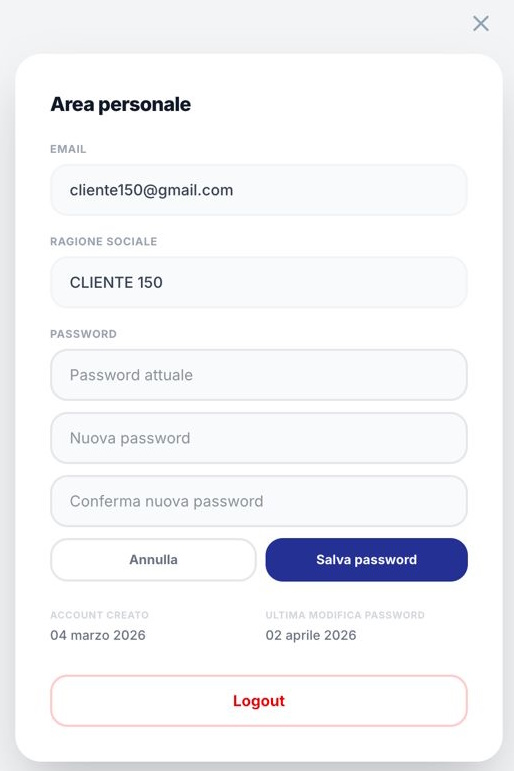
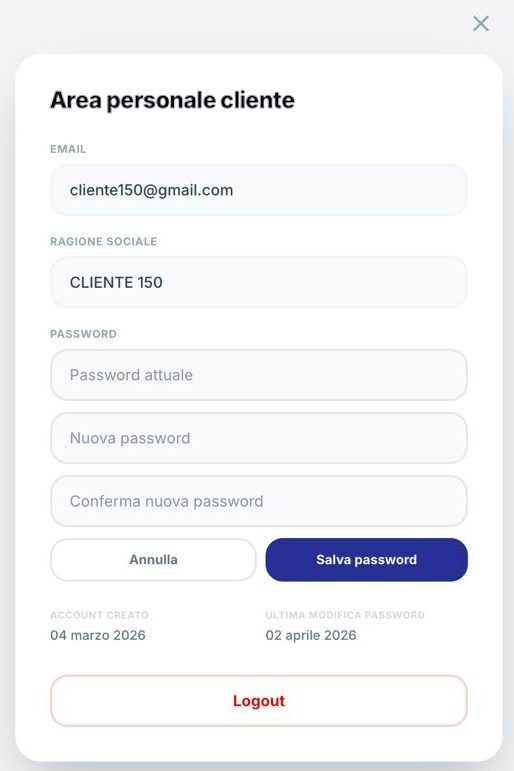
Completamento manuali
Redatto da:
- @biasuzzi-davide
Verificato da:
- Leonardo Bilato

Changed region(s): [[0.0934, 0.0934, 0.5914, 0.1556]]

diff --git a/src/PB/Documentazione Esterna/Manuale_Cliente_v0.6.tex b/src/PB/Documentazione Esterna/Manuale_Cliente_v0.6.tex
@@ -16,7 +16,7 @@
 
 % --- Grafica e Layout ---
 \usepackage{graphicx}
-\graphicspath{{Contenuti/}, {Contenuti/immagini/}, {Contenuti/componenti_manuali_utente/assets/},{../../assets/},{../assets/},{assets/}}
+\graphicspath{{Contenuti/}, {Contenuti/immagini/},{Contenuti/componenti_manuali_utente/assets/},{../../assets/},{../assets/},{assets/}}
 \usepackage[a4paper, top=2.5cm, bottom=3cm, left=2.5cm, right=2.5cm]{geometry}
 \usepackage{fancyhdr}
 \usepackage{microtype}
@@ -37,7 +37,7 @@
     filecolor=DarkBlue,
     urlcolor=DarkBlue,
     citecolor=DarkBlue,
-    pdftitle={Manuale Operatore - NightPRO},
+    pdftitle={Manuale Cliente - NightPRO},
     pdfauthor={Gruppo NightPRO},
 }
 
@@ -103,7 +103,7 @@
     {\small Anno Accademico 2025/2026 \par}
     \vfill
 
-    {\Huge \bfseries Manuale Operatore \par}
+    {\Huge \bfseries Manuale Cliente \par}
     \vspace{1cm}
 
     \vfill
@@ -113,9 +113,9 @@
 
     \large \leavevmode\href{swe.nightpro@gmail.com}{swe.nightpro@gmail.com} \\[2cm]
 
-    {\large Data: 2026-04-08 \par}
+    {\large Data: 2026-04-09 \par}
 
-    {\Large Versione: 0.2 \par}
+    {\Large Versione: 0.6 \par}
 
 \end{titlepage}
 
@@ -134,12 +134,25 @@
             \toprule
             \textbf{Versione} & \textbf{Data} & \textbf{Autore/i} & \textbf{Descrizione delle Modifiche} & \textbf{Verificatore} \\
             \midrule
-            0.2 & 2026-04-08 & Leonardo Bilato & Inserimento immagini e aggiornamento sezione Istruzioni & F. Zanella \\
-            0.1 & 2026-04-04 & Davide Biasuzzi & Stesura base documento manuale operatore & L. Bilato \\
+            0.6 & 2026-04-09 & Davide Biasuzzi & Terminazione del documento & Leonardo Bilato \\
+            0.5 & 2026-04-08 & Leonardo Bilato & Inserimento immagini e sezione feedback & Francesco Zanella \\
+            0.4 & 2026-04-04 & Davide Biasuzzi & Ridenominazione del documento in Manuale Cliente; estrazione della sezione Istruzioni d'uso Operatore in documento separato. & Leonardo Bilato \\
+            0.3 & 2026-04-03 & Davide Biasuzzi & Completamento sezioni 5 (cliente) e 6 (operatore), aggiornamento panoramica funzionalit\`a, aggiunta sezione 7 (errori). & M. M. Romascu \\
+            0.2 & 2026-04-01 & Leonardo Bilato & Stesura paragrafo "Esecuzione del software" & M. M. Romascu \\
+            0.1 & 2026-03-20 & Davide Biasuzzi & Versione iniziale & Leonardo Bilato \\
             \bottomrule
         \end{tabular}
     }
 \end{center}
+
+% -------------------------------------------------------------------
+%  INDICE
+% -------------------------------------------------------------------
+\newpage
+\tableofcontents
+\listoffigures
+\listoftables
+\pagestyle{fancy}
 
 % -------------------------------------------------------------------
 %  COMPONENTI DEL GRUPPO
@@ -167,20 +180,11 @@
     \caption{Componenti del gruppo NightPRO.}
 \end{table}
 
-% -------------------------------------------------------------------
-%  INDICE
-% -------------------------------------------------------------------
-\newpage
-\tableofcontents
-\listoffigures
-\listoftables
-\pagestyle{fancy}
-
 % ===================================================================
 %  SEZIONI
 % ===================================================================
 \newpage
-\input{Contenuti/componenti_manuali_utente/IntroduzioneOperatore}
+\input{Contenuti/componenti_manuali_utente/IntroduzioneCliente}
 
 \newpage
 \input{Contenuti/componenti_manuali_utente/sezione_requisiti}
@@ -189,10 +193,10 @@
 \input{Contenuti/componenti_manuali_utente/sezione_accesso}
 
 \newpage
-\input{Contenuti/componenti_manuali_utente/PanoramicaOperatore}
+\input{Contenuti/componenti_manuali_utente/PanoramicaCliente}
 
 \newpage
-\input{Contenuti/componenti_manuali_utente/IstruzioniOperatore}
+\input{Contenuti/componenti_manuali_utente/IstruzioniCliente}
 
 \newpage
 \input{Contenuti/componenti_manuali_utente/sezione_errori}

diff --git a/src/PB/Documentazione Esterna/Manuale_Operatore_v0.3.tex b/src/PB/Documentazione Esterna/Manuale_Operatore_v0.3.tex
@@ -16,7 +16,7 @@
 
 % --- Grafica e Layout ---
 \usepackage{graphicx}
-\graphicspath{{Contenuti/}, {Contenuti/immagini/},{Contenuti/componenti_manuali_utente/assets/},{../../assets/},{../assets/},{assets/}}
+\graphicspath{{Contenuti/}, {Contenuti/immagini/}, {Contenuti/componenti_manuali_utente/assets/},{../../assets/},{../assets/},{assets/}}
 \usepackage[a4paper, top=2.5cm, bottom=3cm, left=2.5cm, right=2.5cm]{geometry}
 \usepackage{fancyhdr}
 \usepackage{microtype}
@@ -37,7 +37,7 @@
     filecolor=DarkBlue,
     urlcolor=DarkBlue,
     citecolor=DarkBlue,
-    pdftitle={Manuale Cliente - NightPRO},
+    pdftitle={Manuale Operatore - NightPRO},
     pdfauthor={Gruppo NightPRO},
 }
 
@@ -103,7 +103,7 @@
     {\small Anno Accademico 2025/2026 \par}
     \vfill
 
-    {\Huge \bfseries Manuale Cliente \par}
+    {\Huge \bfseries Manuale Operatore \par}
     \vspace{1cm}
 
     \vfill
@@ -113,9 +113,9 @@
 
     \large \leavevmode\href{swe.nightpro@gmail.com}{swe.nightpro@gmail.com} \\[2cm]
 
-    {\large Data: 2026-04-08 \par}
+    {\large Data: 2026-04-09 \par}
 
-    {\Large Versione: 0.5 \par}
+    {\Large Versione: 0.3 \par}
 
 \end{titlepage}
 
@@ -134,24 +134,13 @@
             \toprule
             \textbf{Versione} & \textbf{Data} & \textbf{Autore/i} & \textbf{Descrizione delle Modifiche} & \textbf{Verificatore} \\
             \midrule
-            0.5 & 2026-04-08 & Leonardo Bialto & Inserimento immagini e sezione feedback & Francesco Zanella \\
-            0.4 & 2026-04-04 & Davide Biasuzzi & Ridenominazione del documento in Manuale Cliente; estrazione della sezione Istruzioni d'uso Operatore in documento separato. & Leonardo Bilato \\
-            0.3 & 2026-04-03 & Davide Biasuzzi & Completamento sezioni 5 (cliente) e 6 (operatore), aggiornamento panoramica funzionalit\`a, aggiunta sezione 7 (errori). & M. M. Romascu \\
-            0.2 & 2026-04-01 & Leonardo Bilato & Stesura paragrafo "Esecuzione del software" & M. M. Romascu \\
-            0.1 & 2026-03-20 & Davide Biasuzzi & Versione iniziale & Leonardo Bilato \\
+            0.3 & 2026-04-09 & Davide Biasuzzi & Terminazione del documento & Leonardo Bilato \\
+            0.2 & 2026-04-08 & Leonardo Bilato & Inserimento immagini e aggiornamento sezione Istruzioni & F. Zanella \\
+            0.1 & 2026-04-04 & Davide Biasuzzi & Stesura base documento manuale operatore & L. Bilato \\
             \bottomrule
         \end{tabular}
     }
 \end{center}
-
-% -------------------------------------------------------------------
-%  INDICE
-% -------------------------------------------------------------------
-\newpage
-\tableofcontents
-\listoffigures
-\listoftables
-\pagestyle{fancy}
 
 % -------------------------------------------------------------------
 %  COMPONENTI DEL GRUPPO
@@ -179,11 +168,20 @@
     \caption{Componenti del gruppo NightPRO.}
 \end{table}
 
+% -------------------------------------------------------------------
+%  INDICE
+% -------------------------------------------------------------------
+\newpage
+\tableofcontents
+\listoffigures
+\listoftables
+\pagestyle{fancy}
+
 % ===================================================================
 %  SEZIONI
 % ===================================================================
 \newpage
-\input{Contenuti/componenti_manuali_utente/IntroduzioneCliente}
+\input{Contenuti/componenti_manuali_utente/IntroduzioneOperatore}
 
 \newpage
 \input{Contenuti/componenti_manuali_utente/sezione_requisiti}
@@ -192,10 +190,10 @@
 \input{Contenuti/componenti_manuali_utente/sezione_accesso}
 
 \newpage
-\input{Contenuti/componenti_manuali_utente/PanoramicaCliente}
+\input{Contenuti/componenti_manuali_utente/PanoramicaOperatore}
 
 \newpage
-\input{Contenuti/componenti_manuali_utente/IstruzioniCliente}
+\input{Contenuti/componenti_manuali_utente/IstruzioniOperatore}
 
 \newpage
 \input{Contenuti/componenti_manuali_utente/sezione_errori}

diff --git a/src/PB/Documentazione Esterna/Contenuti/componenti_manuali_utente/IntroduzioneCliente.tex b/src/PB/Documentazione Esterna/Contenuti/componenti_manuali_utente/IntroduzioneCliente.tex
@@ -31,14 +31,14 @@ I termini presenti nel glossario sono contrassegnati con il simbolo \textsubscri
 
 \subsubsection{Riferimenti normativi}
 \begin{itemize}
-    \item \href{https://swenightpro.github.io/Documentazione/docs/RTB/Documentazione%20Interna/Norme_di_Progetto_v2.0.pdf}{Norme di Progetto v3.2 (Ultima modifica: 2026-04-03)}
-    \item \href{https://swenightpro.github.io/Documentazione/docs/PB/Documentazione%20Esterna/Analisi_dei_Requisiti_v2.2.pdf}{Analisi dei Requisiti v2.2 (Ultima modifica: 2026-04-08)}
-    \item \href{https://swenightpro.github.io/Documentazione/docs/PB/Documentazione%20Esterna/Specifica%20Tecnica%20v0.1.pdf}{Specifica Tecnica v0.5 (Ultima modifica: 2026-04-04)}
+    \item \href{https://swenightpro.github.io/Documentazione/docs/PB/Documentazione\%20Interna/Norme_Di_Progetto.pdf}{Norme di Progetto v4.0 (Ultima modifica: 2026-04-09)}
+    \item \href{https://swenightpro.github.io/Documentazione/docs/PB/Documentazione\%20Esterna/Analisi_dei_Requisiti.pdf}{Analisi dei Requisiti v3.0 (Ultima modifica: 2026-04-09)}
+    \item \href{https://swenightpro.github.io/Documentazione/docs/PB/Documentazione\%20Esterna/Specifica_Tecnica.pdf}{Specifica Tecnica v1.0 (Ultima modifica: 2026-04-09)}
 \end{itemize}
 
 \subsubsection{Riferimenti informativi}
 \begin{itemize}
-    \item \href{https://swenightpro.github.io/Documentazione/docs/RTB/Documentazione%20Esterna/Glossario_v2.0.pdf}{Glossario v2.3 (Ultima modifica: 2026-04-04)}
-    \item \href{https://nextjs.org/docs}{Next.js Documentation (Ultima modifica: 2026-04-08)}
-    \item \href{https://fastapi.tiangolo.com}{FastAPI Documentation (Ultima modifica: 2026-04-08)}
+    \item \href{https://swenightpro.github.io/Documentazione/docs/PB/Documentazione\%20Esterna/Glossario.pdf}{Glossario v3.0 (Ultima modifica: 2026-04-09)}
+    \item \href{https://nextjs.org/docs}{Next.js Documentation (Ultima modifica: 2026-04-09)}
+    \item \href{https://fastapi.tiangolo.com}{FastAPI Documentation (Ultima modifica: 2026-04-09)}
 \end{itemize}

diff --git a/src/PB/Documentazione Esterna/Contenuti/componenti_manuali_utente/IntroduzioneOperatore.tex b/src/PB/Documentazione Esterna/Contenuti/componenti_manuali_utente/IntroduzioneOperatore.tex
@@ -33,14 +33,14 @@ I termini presenti nel glossario sono contrassegnati con il simbolo \textsubscri
 
 \subsubsection{Riferimenti normativi}
 \begin{itemize}
-    \item \href{https://swenightpro.github.io/Documentazione/docs/RTB/Documentazione%20Interna/Norme_di_Progetto_v2.0.pdf}{Norme di Progetto v3.2 (Ultima modifica: 2026-04-03)}
-    \item \href{https://swenightpro.github.io/Documentazione/docs/PB/Documentazione%20Esterna/Analisi_dei_Requisiti_v2.2.pdf}{Analisi dei Requisiti v2.2 (Ultima modifica: 2026-04-08)}
-    \item \href{https://swenightpro.github.io/Documentazione/docs/PB/Documentazione%20Esterna/Specifica%20Tecnica%20v0.1.pdf}{Specifica Tecnica v0.5 (Ultima modifica: 2026-04-04)}
+    \item \href{https://swenightpro.github.io/Documentazione/docs/PB/Documentazione\%20Interna/Norme_Di_Progetto.pdf}{Norme di Progetto v4.0 (Ultima modifica: 2026-04-09)}
+    \item \href{https://swenightpro.github.io/Documentazione/docs/PB/Documentazione\%20Esterna/Analisi_dei_Requisiti.pdf}{Analisi dei Requisiti v3.0 (Ultima modifica: 2026-04-09)}
+    \item \href{https://swenightpro.github.io/Documentazione/docs/PB/Documentazione\%20Esterna/Specifica_Tecnica.pdf}{Specifica Tecnica v1.0 (Ultima modifica: 2026-04-09)}
 \end{itemize}
 
 \subsubsection{Riferimenti informativi}
 \begin{itemize}
-    \item \href{https://swenightpro.github.io/Documentazione/docs/RTB/Documentazione%20Esterna/Glossario_v2.0.pdf}{Glossario v2.3 (Ultima modifica: 2026-04-04)}
-    \item \href{https://nextjs.org/docs}{Next.js Documentation (Ultima modifica: 2026-04-08)}
-    \item \href{https://fastapi.tiangolo.com}{FastAPI Documentation (Ultima modifica: 2026-04-08)}
+    \item \href{https://swenightpro.github.io/Documentazione/docs/PB/Documentazione\%20Esterna/Glossario.pdf}{Glossario v3.0 (Ultima modifica: 2026-04-09)}
+    \item \href{https://nextjs.org/docs}{Next.js Documentation (Ultima modifica: 2026-04-09)}
+    \item \href{https://fastapi.tiangolo.com}{FastAPI Documentation (Ultima modifica: 2026-04-09)}
 \end{itemize}

diff --git a/src/PB/Documentazione Esterna/Contenuti/componenti_manuali_utente/IstruzioniCliente.tex b/src/PB/Documentazione Esterna/Contenuti/componenti_manuali_utente/IstruzioniCliente.tex
@@ -42,6 +42,18 @@ Per dettare un ordine usando la voce:
     \item \textbf{Errore}: Se il riconoscimento vocale non produce testo, l'IA risponde chiedendo di ripetere.
 \end{enumerate}
 
+\subsection{Input tramite immagini}
+
+Per creare un ordine caricando un'immagine:
+
+\begin{enumerate}
+    \item \textbf{Attivazione}: Nella barra di input della chat, cliccare sull'icona della fotocamera o trascinare un'immagine direttamente nel pannello chat.
+    \item \textbf{Caricamento}: Selezionare un'immagine dal dispositivo. Il sistema accetta formati comuni (JPEG, PNG, ecc.).
+    \item \textbf{Analisi}: L'IA analizza l'immagine automaticamente per identificare i prodotti visibili (ad esempio, etichette, confezioni, ricevute) o riconosce il testo presente nell'immagine, incluso il testo manuale scritto a mano.
+    \item \textbf{Risposta dell'IA}: L'IA risponde confermando i prodotti riconosciuti e le relative quantit\`a. Accanto a ciascun articolo comparir\`a un anello colorato che indica la confidenza della classificazione.
+    \item \textbf{Errore}: Se l'IA non riesce a identificare i prodotti nell'immagine, risponde chiedendo di provare con un'immagine pi\`u chiara o di utilizzare la chat testuale.
+\end{enumerate}
+
 \subsection{Ricerca e aggiunta manuale di prodotti}
 
 Per cercare e aggiungere un prodotto manualmente (senza passare per la chat IA):

diff --git a/src/PB/Documentazione Esterna/Contenuti/componenti_manuali_utente/PanoramicaOperatore.tex b/src/PB/Documentazione Esterna/Contenuti/componenti_manuali_utente/PanoramicaOperatore.tex
@@ -6,7 +6,7 @@ Questa sezione fornisce una visione d'insieme delle funzionalit\`a offerte dalla
     \item[\textbf{Dashboard ticket}] Visualizzazione tabellare di tutti i ticket aperti/in lavorazione, ordinati per tempo di attesa decrescente (i pi\`u urgenti in alto). Aggiornamento automatico in tempo reale.
     \item[\textbf{Gestione ticket}] Apertura di un pannello dedicato per ogni ticket con chat in tempo reale (SSE) e carrello del cliente modificabile. L'operatore pu\`o inviare messaggi, aggiungere/rimuovere/modificare articoli e inviare l'ordine per conto del cliente.
     \item[\textbf{Storico ordini globale}] Consultazione di tutti gli ordini di tutti i clienti con filtri avanzati per ID ordine, codice cliente, ragione sociale e intervallo date. Ordinamento multicolonna. Esportazione in formato JSON e CSV.
-    \item[\textbf{Export batch}] Esportazione automatica degli ordini in formato CSV alla login dell'operatore, salvati nella cartella configurata.
+    \item[\textbf{Export batch}] Esportazione automatica degli ordini in formato CSV al login dell'operatore, salvati nella cartella configurata.
     \item[\textbf{Configurazione export}] Impostazione della cartella di salvataggio per i file di export ordini.
     \item[\textbf{Area personale}] Consultazione del proprio profilo e cambio password.
 \end{description}

diff --git a/src/PB/Documentazione Esterna/Contenuti/componenti_manuali_utente/sezione_errori.tex b/src/PB/Documentazione Esterna/Contenuti/componenti_manuali_utente/sezione_errori.tex
@@ -18,7 +18,7 @@ Di seguito sono elencati i principali messaggi di errore che l'utente potrebbe i
     \hline
     \textit{``Impossibile accedere al microfono''} & Browser non ha (o ha negato) il permesso di usare il microfono & Concedere il permesso del microfono nelle impostazioni del browser. Ricaricare la pagina. \\
     \hline
-    \textit{``Non ho capito nulla dall'audio. Puoi ripetere o scrivere?''} & Audio troppo basso, rumore di fondo eccessivo o vocabolario non riconosciuto & Ripetere la frase in modo pi\`u chiaro, avvicinarsi al microfono, diminuire i rumori ambientali. In alternativa, digitare il testo. \\
+    \textit{``Impossibile trascrivere l'audio''} & Audio troppo basso, rumore di fondo eccessivo o vocabolario non riconosciuto & Ripetere la frase in modo pi\`u chiaro, avvicinarsi al microfono, diminuire i rumori ambientali. In alternativa, digitare il testo. \\
     \hline
     \textit{``Servizio chat non disponibile. Verifica che il servizio Python sia attivo sulla porta 8000.''} & Il backend FastAPI non \`e in esecuzione & Avviare il backend con \texttt{python main.py} nella directory \texttt{backend}. Verificare che stia ascoltando sulla porta corretta. \\
     \hline

diff --git a/src/PB/Documentazione Esterna/Contenuti/componenti_manuali_utente/IstruzioniOperatore.tex b/src/PB/Documentazione Esterna/Contenuti/componenti_manuali_utente/IstruzioniOperatore.tex
@@ -2,7 +2,7 @@
 
 L'interfaccia Operatore \`e accessibile esclusivamente agli utenti con ruolo \texttt{admin}. Al login, se le credenziali appartengono a un operatore, viene effettuato un redirect automatico da \texttt{/} a \texttt{/operatore}.
 
-L'interfaccia presenta un layout desktop con barra di navigazione laterale contenente tre sezioni: \textbf{Ticket Aperti}, \textbf{Storico Ordini}, \textbf{Profilo}. In alto a sinistra \`e visibile il nome/ragione sociale dell'operatore; in alto a destra il pulsante di logout.
+L'interfaccia presenta un layout desktop con barra di navigazione laterale contenente tre sezioni: \textbf{Ticket Aperti}, \textbf{Storico Ordini}, \textbf{Profilo}. In alto a sinistra \`e visibile il nome dell'operatore; in alto a destra il pulsante di logout.
 
 All'accesso, se \`e configurata una cartella di export, viene eseguito automaticamente un export batch degli ultimi ordini (fino a 50) e viene mostrata una notifica toast con il risultato.
 
